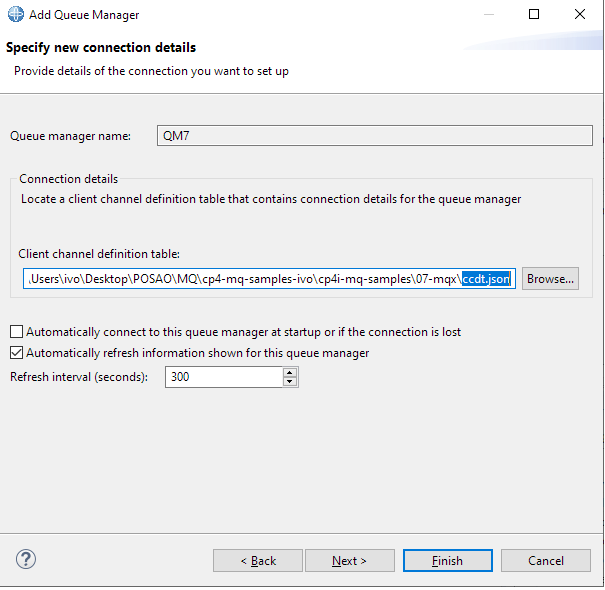
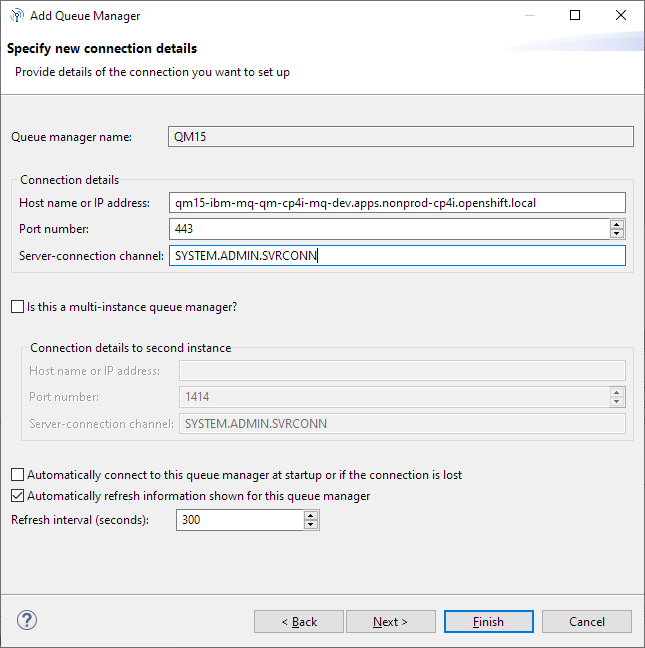
fixed images

diff --git a/15-ldap/README.md b/15-ldap/README.md
@@ -428,27 +428,37 @@ An example mqclient.ini file is provided along with this documentation.
 
 ![add remote QMGR](./images/mqexplorer01.png)
 
-3. Enter the queue manager name (`QM15`, case sensitive) and select the `Connect using a client channel definition table` radio button. Click `Next`.
+3. Enter the queue manager name (`QM15`, case sensitive) and click `Next`.
 
 ![QMGR name](./images/mqexplorer02.png)
 
-4. On the next pane (`Specify new connection details`), click `Browse...` and select the file `ccdt.json` just created. Click `Next`.
+4. On the next pane (`Specify new connection details`), enter the hostname and port (443) of your queue manager and click `Next`.
 
-![add CCDT](./images/mqexplorer03.png)
+![connection details](./images/mqexplorer03.png)
 
-5. On `Specify SSL certificate key repository details, tick `Enable SSL key repositories`.
+5. On `Specify user identification details` tick `Enable user identification` and enter userid `admin1`.
 
-5.1. On `Trusted Certificate Store` click on `Browse...` and select the file `mqx1-truststore.jks`.
+![user identification](./images/mqexplorer03_1.png)
+
+6. On `Specify SSL certificate key repository details`, tick `Enable SSL key repositories`.
+
+6.1. On `Trusted Certificate Store` click on `Browse...` and select the file `mqx1-truststore.jks`.
 
 ![SSL repos](./images/mqexplorer04.png)
 
-5.2. Select `Enter password...` and enter the trust store password (in our case, `password`).
+6.2. Select `Enter password...` and enter the trust store password (in our case, `password`).
 
 ![SSL repos password](./images/mqexplorer05.png)
 
-Click `Finish`.
+7. On `Specify SSL option details` tick `Enable SSL options`, select SSL CipherSpec `ANY_TLS12_OR_HIGHER` and click `Finish`.
+
+![SSL options](./images/mqexplorer06.png)
+
+7.1. When prompted for the `admin1` user password, enter `password` (or different if your LDAP user has a different username/password).
 
 ![Finish](./images/mqexplorer06.png)
+
+Click `OK`.
 
 You should now have a connection to your QMGR deployed on Openshift.
 
